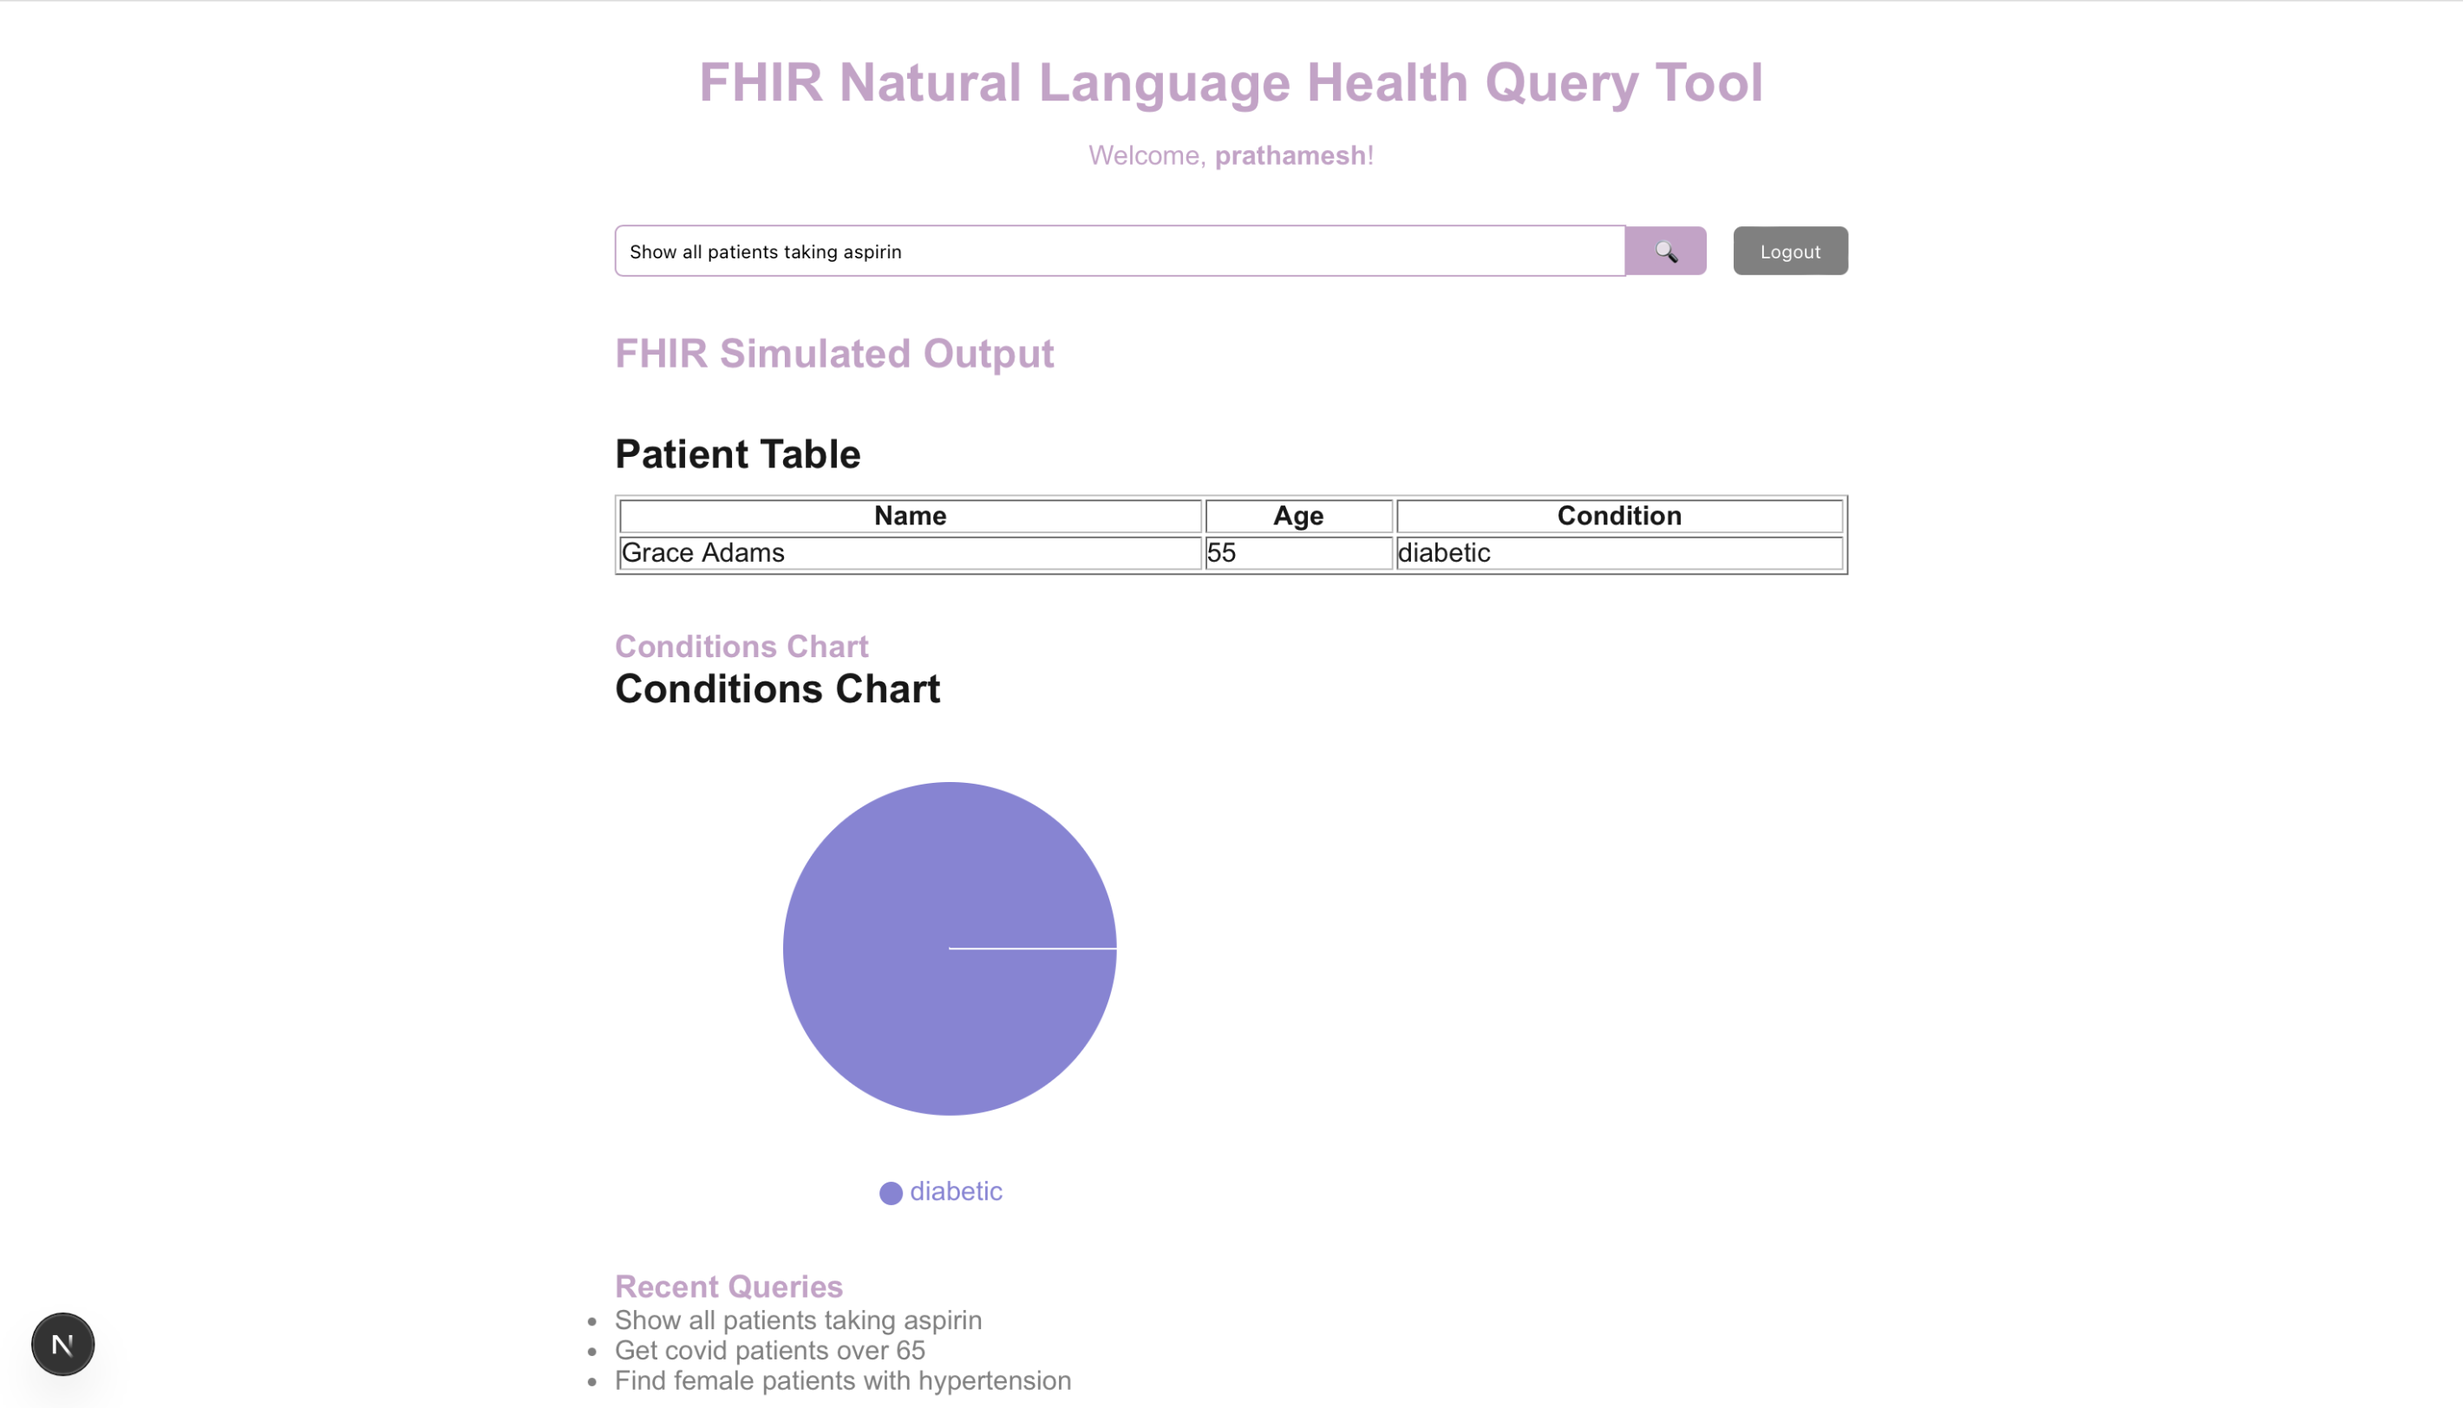
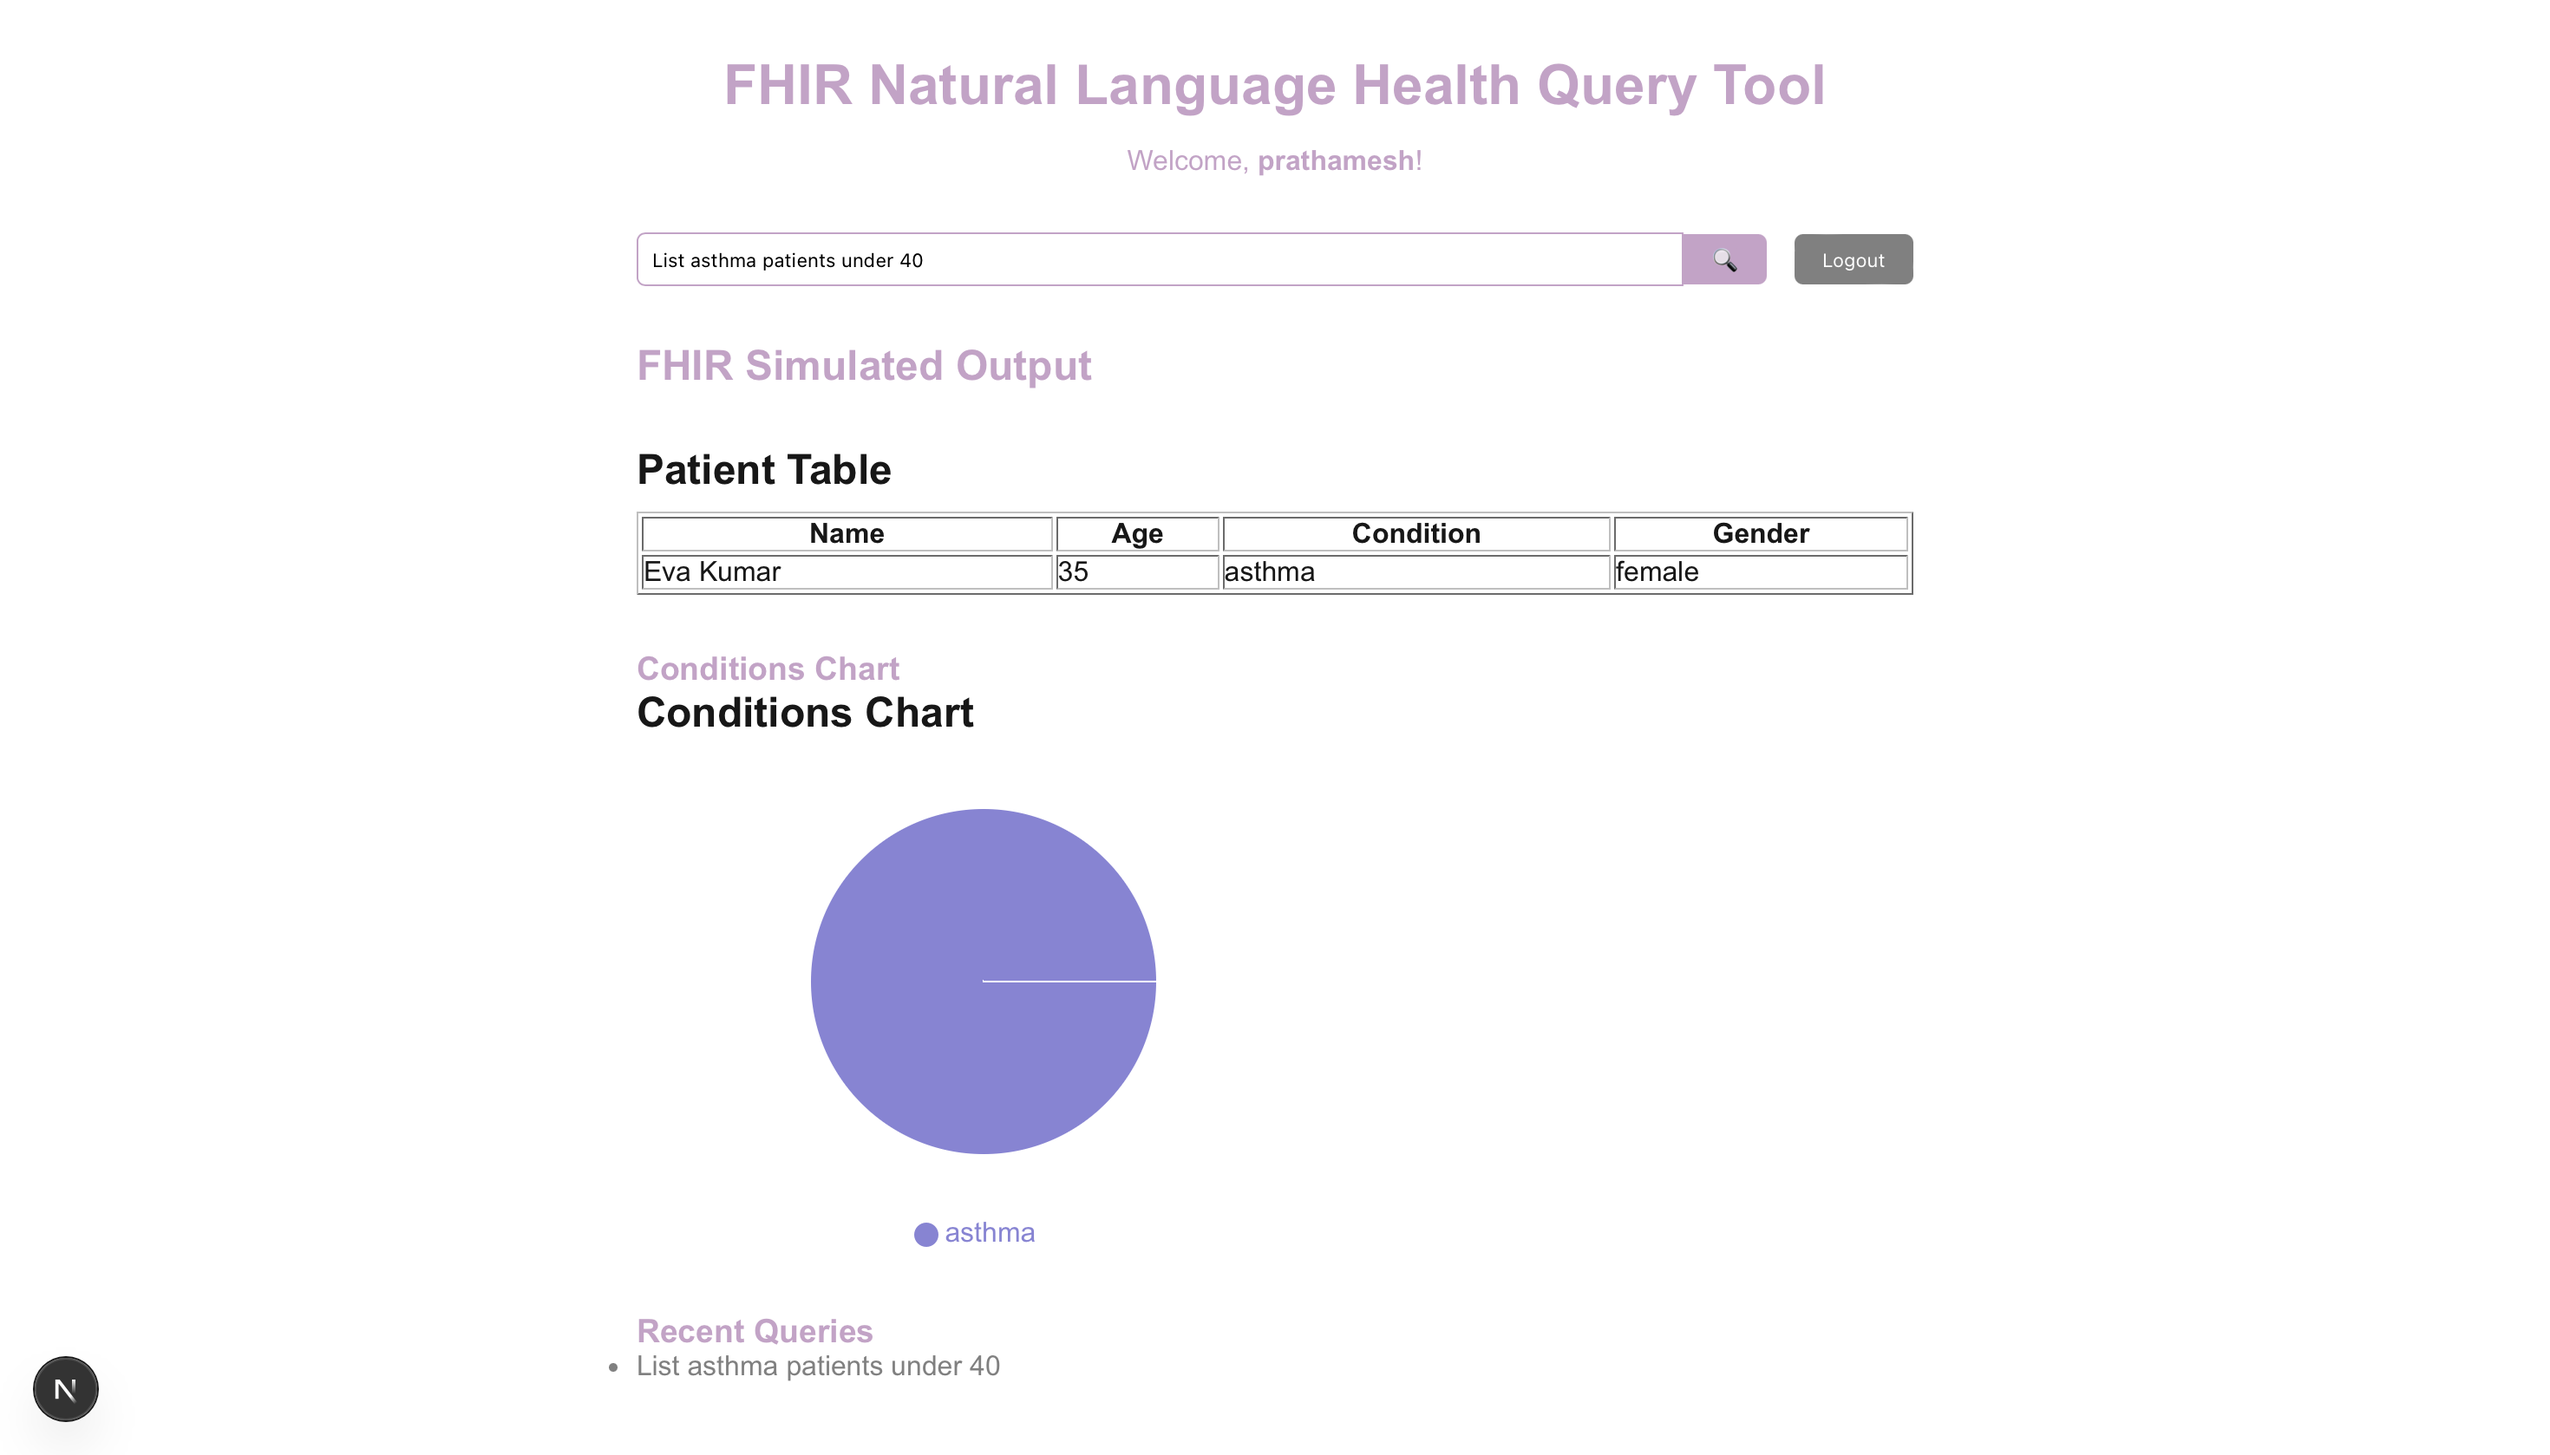
Update ResultsTable to include Gender column and refresh screenshots

diff --git a/frontend/components/ResultsTable.js b/frontend/components/ResultsTable.js
@@ -14,6 +14,7 @@ export default function ResultsTable({ data }) {
             <th>Name</th>
             <th>Age</th>
             <th>Condition</th>
+            <th>Gender</th>
           </tr>
         </thead>
         <tbody>
@@ -22,6 +23,7 @@ export default function ResultsTable({ data }) {
               <td>{patient.name}</td>
               <td>{patient.age}</td>
               <td>{patient.condition}</td>
+              <td>{patient.gender || "N/A"}</td>
             </tr>
           ))}
         </tbody>
